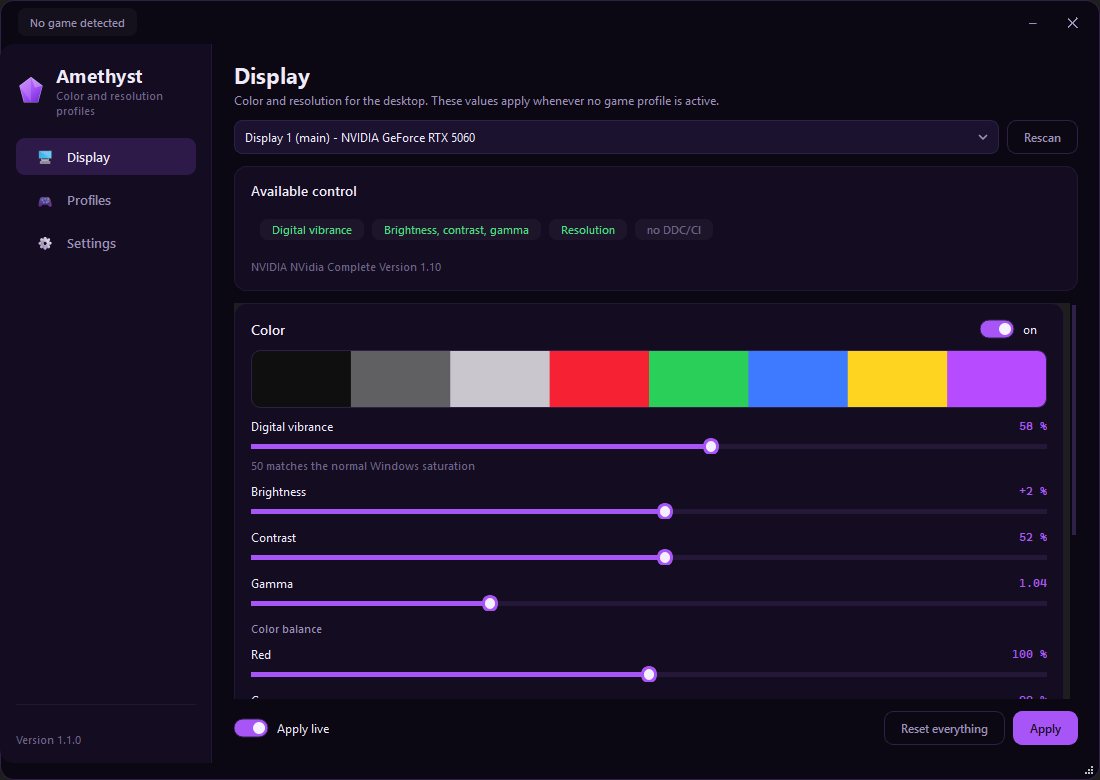
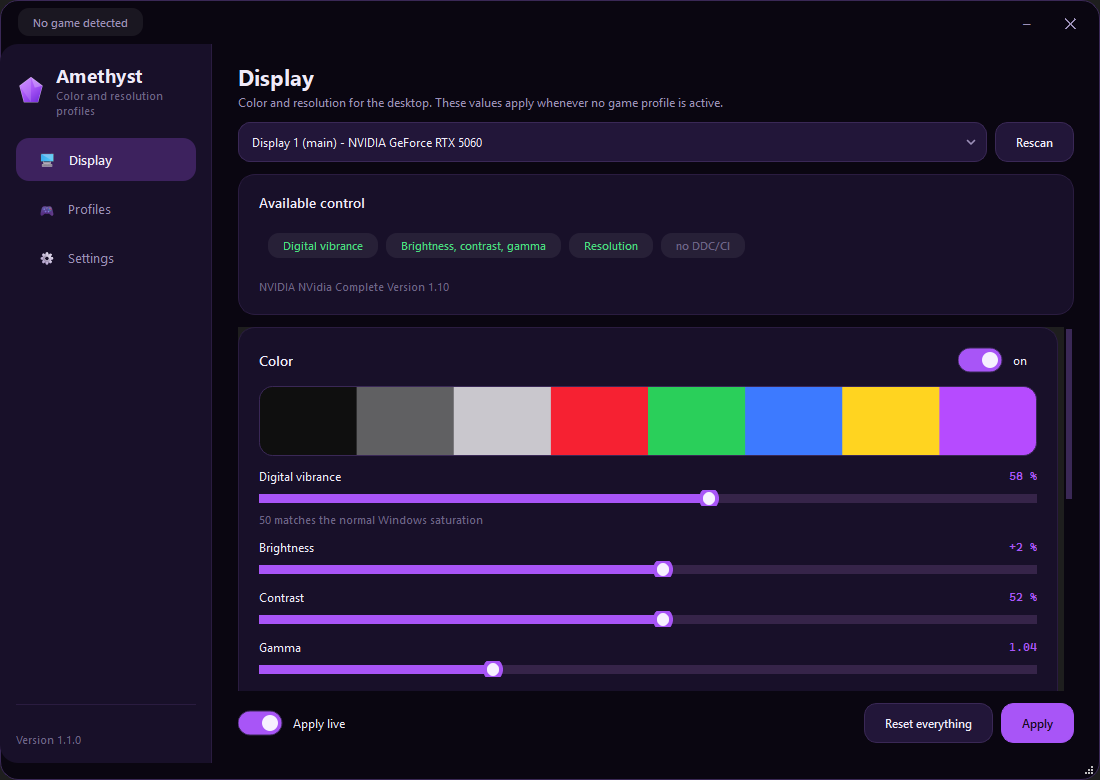
Rounder shapes and more substance in the interface
The look was thin: hairline borders, narrow controls, transparent ghost
buttons. Surfaces now carry the design instead of outlines.

- larger radii throughout, from 8 to 12 px on inputs and 12 to 17 px on cards
- brighter surface tones so a card reads as a filled panel, not an outline
- sliders got a 9 px groove and a heavier handle
- ghost buttons are filled, list rows and menus have more padding
- switches, badges and the resolution overlay scaled up to match

Also: the repository is ImKirit/Amethyst, so the update check and the
README links use that spelling.

diff --git a/amethyst/ui/theme.py b/amethyst/ui/theme.py
@@ -7,16 +7,16 @@ from pathlib import Path
 ASSETS = (Path(__file__).resolve().parent.parent / "assets").as_posix()
 
 # Base: deep violet, a single bright accent, calm surfaces
-BG = "#0B0713"
-SURFACE = "#140D22"
-SURFACE_2 = "#1B1230"
-SURFACE_3 = "#241738"
-BORDER = "#2E2046"
-BORDER_SOFT = "#221733"
+BG = "#0A0611"
+SURFACE = "#181029"
+SURFACE_2 = "#221639"
+SURFACE_3 = "#2C1D48"
+BORDER = "#3A2856"
+BORDER_SOFT = "#2A1C40"
 
 ACCENT = "#A855F7"
 ACCENT_DIM = "#7C3AED"
-ACCENT_GLOW = "rgba(168, 85, 247, 0.18)"
+ACCENT_GLOW = "rgba(168, 85, 247, 0.26)"
 
 TEXT = "#EFEAF9"
 TEXT_MUTED = "#9C90B8"
@@ -26,7 +26,7 @@ SUCCESS = "#4ADE80"
 WARNING = "#FBBF24"
 DANGER = "#F87171"
 
-RADIUS = 14
+RADIUS = 18
 FONT = "Segoe UI"
 
 
@@ -72,10 +72,11 @@ def stylesheet() -> str:
     QPushButton#navButton {{
         background: transparent;
         border: none;
-        border-radius: 9px;
-        padding: 10px 12px;
+        border-radius: 13px;
+        padding: 13px 14px;
         text-align: left;
         font-size: 13px;
+        font-weight: 500;
         color: {TEXT_MUTED};
     }}
     QPushButton#navButton:hover {{ background: {SURFACE_2}; color: {TEXT}; }}
@@ -88,20 +89,20 @@ def stylesheet() -> str:
     QFrame#card {{
         background: {SURFACE};
         border: 1px solid {BORDER_SOFT};
-        border-radius: 12px;
+        border-radius: 17px;
     }}
     QFrame#cardFlat {{
         background: {SURFACE_2};
         border: 1px solid {BORDER_SOFT};
-        border-radius: 10px;
+        border-radius: 14px;
     }}
     QFrame#divider {{ background: {BORDER_SOFT}; max-height: 1px; border: none; }}
 
     QPushButton {{
         background: {SURFACE_2};
         border: 1px solid {BORDER};
-        border-radius: 9px;
-        padding: 8px 16px;
+        border-radius: 13px;
+        padding: 11px 20px;
         font-size: 12px;
         font-weight: 600;
     }}
@@ -118,19 +119,19 @@ def stylesheet() -> str:
     QPushButton#primary:disabled {{ background: {SURFACE_2}; color: {TEXT_FAINT}; border-color: {BORDER}; }}
 
     QPushButton#ghost {{
-        background: transparent;
+        background: {SURFACE_2};
         border: 1px solid {BORDER};
-        color: {TEXT_MUTED};
+        color: {TEXT};
     }}
-    QPushButton#ghost:hover {{ color: {TEXT}; border-color: {ACCENT_DIM}; }}
+    QPushButton#ghost:hover {{ background: {SURFACE_3}; border-color: {ACCENT_DIM}; }}
 
     QPushButton#danger:hover {{ border-color: {DANGER}; color: {DANGER}; }}
 
     QPushButton#windowButton, QPushButton#closeButton {{
         background: transparent;
         border: none;
-        border-radius: 7px;
-        padding: 4px 10px;
+        border-radius: 10px;
+        padding: 5px 11px;
         font-size: 15px;
         font-weight: 500;
         color: {TEXT_MUTED};
@@ -141,8 +142,8 @@ def stylesheet() -> str:
     QLineEdit, QComboBox, QSpinBox, QDoubleSpinBox, QPlainTextEdit {{
         background: {SURFACE_2};
         border: 1px solid {BORDER};
-        border-radius: 8px;
-        padding: 7px 10px;
+        border-radius: 12px;
+        padding: 10px 13px;
         font-size: 12px;
         selection-background-color: {ACCENT_DIM};
     }}
@@ -159,28 +160,28 @@ def stylesheet() -> str:
     QComboBox QAbstractItemView {{
         background: {SURFACE_2};
         border: 1px solid {BORDER};
-        border-radius: 8px;
-        padding: 4px;
+        border-radius: 12px;
+        padding: 6px;
         outline: none;
         selection-background-color: {ACCENT_GLOW};
     }}
 
     QSlider::groove:horizontal {{
-        height: 5px;
-        background: {SURFACE_3};
-        border-radius: 3px;
+        height: 9px;
+        background: #362449;
+        border-radius: 5px;
     }}
     QSlider::sub-page:horizontal {{
         background: {ACCENT};
-        border-radius: 3px;
+        border-radius: 5px;
     }}
     QSlider::handle:horizontal {{
-        background: #F4EEFF;
-        border: 3px solid {ACCENT};
-        width: 10px;
-        height: 10px;
+        background: #F6F1FF;
+        border: 4px solid {ACCENT};
+        width: 12px;
+        height: 12px;
         margin: -6px 0;
-        border-radius: 8px;
+        border-radius: 10px;
     }}
     QSlider::handle:horizontal:hover {{ border-color: #C68CFF; }}
     QSlider::groove:horizontal:disabled {{ background: {BORDER_SOFT}; }}
@@ -195,9 +196,9 @@ def stylesheet() -> str:
     QListWidget::item {{
         background: {SURFACE_2};
         border: 1px solid {BORDER_SOFT};
-        border-radius: 10px;
-        padding: 6px;
-        margin-bottom: 6px;
+        border-radius: 14px;
+        padding: 7px;
+        margin-bottom: 7px;
     }}
     QListWidget::item:hover {{ border-color: {ACCENT_DIM}; }}
     QListWidget::item:selected {{
@@ -208,19 +209,19 @@ def stylesheet() -> str:
     QListWidget#compactList::item {{
         background: {SURFACE_2};
         border: 1px solid {BORDER_SOFT};
-        border-radius: 7px;
-        padding: 5px 9px;
-        margin-bottom: 4px;
+        border-radius: 11px;
+        padding: 8px 12px;
+        margin-bottom: 5px;
         font-size: 12px;
         font-family: "Cascadia Mono", "Consolas", monospace;
     }}
 
     QScrollArea {{ background: transparent; border: none; }}
     QScrollBar:vertical {{
-        background: transparent; width: 8px; margin: 2px;
+        background: transparent; width: 10px; margin: 2px;
     }}
     QScrollBar::handle:vertical {{
-        background: {BORDER}; border-radius: 4px; min-height: 30px;
+        background: {BORDER}; border-radius: 5px; min-height: 34px;
     }}
     QScrollBar::handle:vertical:hover {{ background: {ACCENT_DIM}; }}
     QScrollBar::add-line, QScrollBar::sub-line {{ height: 0; }}
@@ -241,18 +242,18 @@ def stylesheet() -> str:
     QToolTip {{
         background: {SURFACE_3};
         border: 1px solid {BORDER};
-        border-radius: 6px;
-        padding: 5px 8px;
+        border-radius: 11px;
+        padding: 7px 10px;
         color: {TEXT};
     }}
 
     QMenu {{
         background: {SURFACE_2};
         border: 1px solid {BORDER};
-        border-radius: 10px;
-        padding: 6px;
+        border-radius: 15px;
+        padding: 7px;
     }}
-    QMenu::item {{ padding: 7px 22px 7px 14px; border-radius: 6px; font-size: 12px; }}
+    QMenu::item {{ padding: 9px 24px 9px 15px; border-radius: 11px; font-size: 12px; }}
     QMenu::item:selected {{ background: {ACCENT_GLOW}; }}
     QMenu::separator {{ height: 1px; background: {BORDER_SOFT}; margin: 5px 8px; }}
     """

diff --git a/amethyst/ui/widgets.py b/amethyst/ui/widgets.py
@@ -21,8 +21,8 @@ class Card(QFrame):
         super().__init__(parent)
         self.setObjectName("cardFlat" if flat else "card")
         self._layout = QVBoxLayout(self)
-        self._layout.setContentsMargins(16, 14, 16, 16)
-        self._layout.setSpacing(10)
+        self._layout.setContentsMargins(20, 18, 20, 20)
+        self._layout.setSpacing(12)
         self.header = QHBoxLayout()
         self.header.setSpacing(8)
         if title:
@@ -68,12 +68,12 @@ class SliderRow(QWidget):
 
         outer = QVBoxLayout(self)
         outer.setContentsMargins(0, 0, 0, 0)
-        outer.setSpacing(4)
+        outer.setSpacing(6)
 
         top = QHBoxLayout()
         top.setContentsMargins(0, 0, 0, 0)
         self.title = QLabel(label)
-        self.title.setStyleSheet("font-size: 12px;")
+        self.title.setStyleSheet("font-size: 12px; font-weight: 500;")
         self.value_label = QLabel()
         self.value_label.setObjectName("valueLabel")
         self.value_label.setAlignment(Qt.AlignRight | Qt.AlignVCenter)
@@ -127,15 +127,16 @@ class SliderRow(QWidget):
     def setEnabled(self, enabled: bool) -> None:  # noqa: N802 - Qt naming
         super().setEnabled(enabled)
         self.title.setStyleSheet(
-            "font-size: 12px;" if enabled else f"font-size: 12px; color: {theme.TEXT_FAINT};")
+            "font-size: 12px; font-weight: 500;" if enabled
+            else f"font-size: 12px; font-weight: 500; color: {theme.TEXT_FAINT};")
 
 
 class Toggle(QCheckBox):
     """Sliding switch: pill with a knob, drawn by hand."""
 
-    TRACK_W = 34
-    TRACK_H = 18
-    GAP = 9
+    TRACK_W = 44
+    TRACK_H = 24
+    GAP = 11
 
     def __init__(self, text: str = "", checked: bool = False, parent=None) -> None:
         super().__init__(text, parent)
@@ -164,9 +165,9 @@ class Toggle(QCheckBox):
         painter.setBrush(QBrush(color))
         painter.drawRoundedRect(track, self.TRACK_H / 2, self.TRACK_H / 2)
 
-        knob_size = self.TRACK_H - 6
-        knob_x = track.right() - knob_size - 3 if on else track.left() + 3
-        knob = QRectF(knob_x, top + 3, knob_size, knob_size)
+        knob_size = self.TRACK_H - 8
+        knob_x = track.right() - knob_size - 4 if on else track.left() + 4
+        knob = QRectF(knob_x, top + 4, knob_size, knob_size)
         painter.setPen(Qt.NoPen)
         painter.setBrush(QBrush(QColor("#F6F1FF" if on else theme.TEXT_MUTED)))
         painter.drawEllipse(knob)
@@ -196,8 +197,8 @@ class Badge(QLabel):
         self._color = color
         self.setStyleSheet(
             f"color: {color}; font-size: 11px; font-weight: 600;"
-            f" background: rgba(255,255,255,0.04); border-radius: 8px;"
-            f" padding: 3px 9px;")
+            f" background: rgba(255,255,255,0.07); border-radius: 11px;"
+            f" padding: 5px 12px;")
 
     def set_state(self, text: str, color: str) -> None:
         self.setText(text)
@@ -209,7 +210,7 @@ class IconButton(QPushButton):
         super().__init__(glyph, parent)
         self.setObjectName("windowButton")
         self.setCursor(Qt.PointingHandCursor)
-        self.setFixedSize(30, 26)
+        self.setFixedSize(34, 30)
         if tooltip:
             self.setToolTip(tooltip)
 
@@ -248,7 +249,7 @@ class ColorPreview(QWidget):
 
     def __init__(self, parent=None) -> None:
         super().__init__(parent)
-        self.setMinimumHeight(58)
+        self.setMinimumHeight(70)
         self._brightness = 0.0
         self._contrast = 50.0
         self._gamma = 1.0
@@ -284,7 +285,7 @@ class ColorPreview(QWidget):
         painter.setRenderHint(QPainter.Antialiasing)
         rect = QRectF(self.rect()).adjusted(0.5, 0.5, -0.5, -0.5)
         path = QPainterPath()
-        path.addRoundedRect(rect, 9, 9)
+        path.addRoundedRect(rect, 13, 13)
         painter.setClipPath(path)
 
         swatches = [

diff --git a/amethyst/ui/overlay.py b/amethyst/ui/overlay.py
@@ -35,7 +35,7 @@ class ResolutionOverlay(QWidget):
         self.setAttribute(Qt.WA_ShowWithoutActivating, True)
         self.setCursor(Qt.SizeAllCursor)
         self.setToolTip("Drag to move. Turn this off in the Amethyst settings.")
-        self.resize(240, 34)
+        self.resize(250, 40)
 
     # -- content ------------------------------------------------------
     def show_mode(self, width: int, height: int, stretched: bool) -> None:
@@ -51,8 +51,8 @@ class ResolutionOverlay(QWidget):
         font.setWeight(QFont.DemiBold)
         self.setFont(font)
         # 27 px for the dot on the left, 16 px of air on the right
-        width = self.fontMetrics().horizontalAdvance(self._text()) + 27 + 16
-        self.resize(width, 34)
+        width = self.fontMetrics().horizontalAdvance(self._text()) + 30 + 20
+        self.resize(width, 40)
 
     def _text(self) -> str:
         kind = "Stretched" if self._stretched else "Native"
@@ -99,16 +99,16 @@ class ResolutionOverlay(QWidget):
         rect = QRectF(self.rect()).adjusted(0.5, 0.5, -0.5, -0.5)
 
         path = QPainterPath()
-        path.addRoundedRect(rect, 9, 9)
+        path.addRoundedRect(rect, 14, 14)
         painter.fillPath(path, QBrush(QColor(14, 8, 24, 224)))
         painter.setPen(QPen(QColor(theme.ACCENT if self._stretched else theme.BORDER), 1.4))
         painter.drawPath(path)
 
-        dot = QRectF(12, rect.center().y() - 3.5, 7, 7)
+        dot = QRectF(14, rect.center().y() - 4.5, 9, 9)
         painter.setPen(Qt.NoPen)
         painter.setBrush(QColor(theme.ACCENT if self._stretched else theme.TEXT_MUTED))
         painter.drawEllipse(dot)
 
         painter.setPen(QColor(theme.TEXT))
-        painter.drawText(rect.adjusted(27, 0, -10, 0), Qt.AlignVCenter | Qt.AlignLeft, self._text())
+        painter.drawText(rect.adjusted(30, 0, -12, 0), Qt.AlignVCenter | Qt.AlignLeft, self._text())
         painter.end()

diff --git a/amethyst/ui/page_profiles.py b/amethyst/ui/page_profiles.py
@@ -180,10 +180,12 @@ class ProfilesPage(QWidget):
             ("Delete", "Remove this profile", self._delete),
         ):
             button = QPushButton(text)
-            button.setObjectName("ghost" if len(text) > 2 else "windowButton")
+            button.setObjectName("ghost")
             button.setCursor(Qt.PointingHandCursor)
             button.setToolTip(tip)
             button.clicked.connect(slot)
+            if len(text) <= 2:
+                button.setFixedWidth(46)
             tools.addWidget(button)
         left_layout.addLayout(tools)
         splitter.addWidget(left)

diff --git a/amethyst/ui/window.py b/amethyst/ui/window.py
@@ -99,7 +99,7 @@ class MainWindow(QWidget):
         for page in (self.display_page, self.profiles_page, self.settings_page):
             holder = QWidget()
             holder_layout = QVBoxLayout(holder)
-            holder_layout.setContentsMargins(22, 16, 22, 18)
+            holder_layout.setContentsMargins(26, 18, 26, 20)
             holder_layout.addWidget(page)
             self.stack.addWidget(holder)
         body.addWidget(self.stack, 1)

diff --git a/amethyst/__init__.py b/amethyst/__init__.py
@@ -4,7 +4,7 @@ APP_NAME = "Amethyst"
 APP_ID = "amethyst"
 VERSION = "1.1.0"
 AUTHOR = "ImKirit"
-REPO = "ImKirit/amethyst"          # owner/name, used for update checks
+REPO = "ImKirit/Amethyst"          # owner/name, used for update checks
 REPO_URL = f"https://github.com/{REPO}"
 
 __all__ = ["APP_NAME", "APP_ID", "VERSION", "AUTHOR", "REPO", "REPO_URL"]

diff --git a/README.md b/README.md
@@ -186,8 +186,8 @@ any GPU.
 Build the executable yourself:
 
 ```bash
-git clone https://github.com/ImKirit/amethyst.git
-cd amethyst
+git clone https://github.com/ImKirit/Amethyst.git
+cd Amethyst
 pip install -r requirements.txt
 python tools/build.py
 ```
